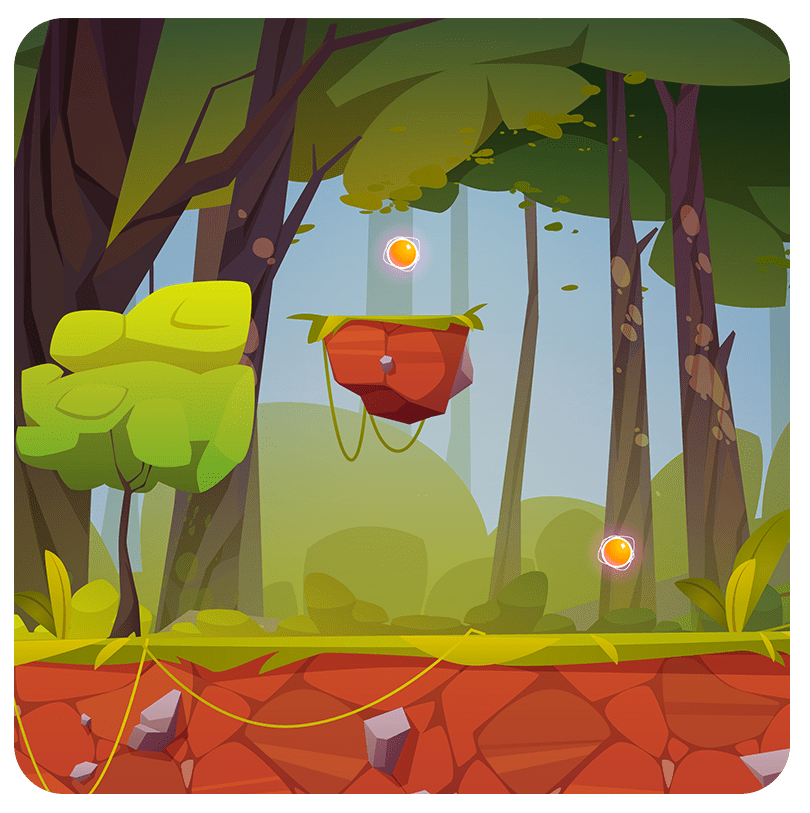
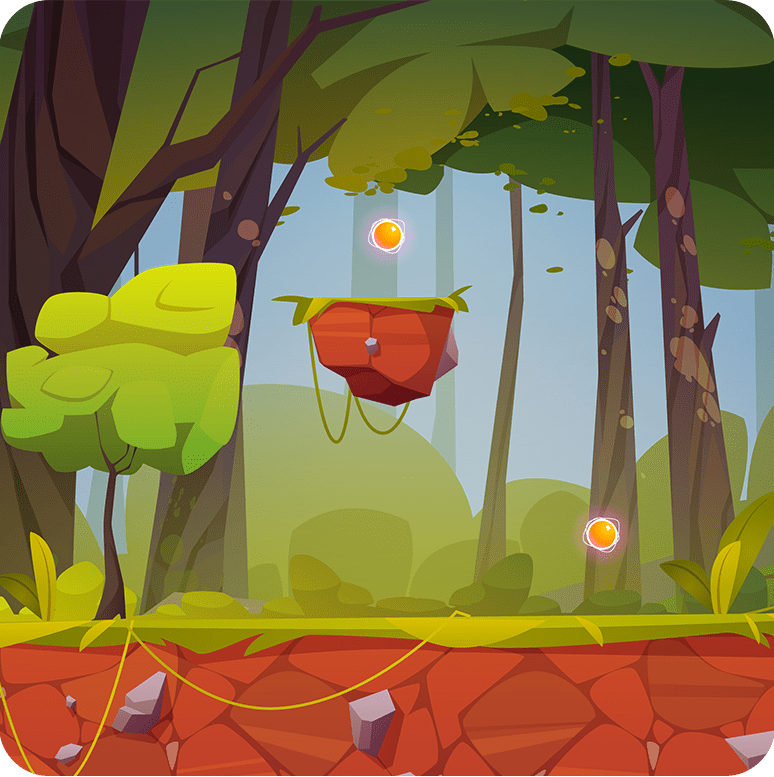
Add files via upload

diff --git a/css/style.css b/css/style.css
@@ -4,8 +4,15 @@
     box-sizing: border-box;
     font-family: 'Poppins', sans-serif;
 }
-.main{
+.mainDark{
     background-image: url("../images/bg1.jpg");
+    height: 100vh;
+    background-repeat: no-repeat;
+    background-size: cover;
+    z-index: -1;
+}
+.mainLight{
+    background-image: url("../images/bg2c1.jpg");
     height: 100vh;
     background-repeat: no-repeat;
     background-size: cover;
@@ -66,7 +73,7 @@ li{
 .background-shape{   
 
  width: 100%;
- position: absolute;    
+ position: relative;    
  top: 250px;
  justify-content: center;
  display: flex;
@@ -82,9 +89,18 @@ li{
     padding-right: 10vw;
     display: flex;
     justify-content: flex-end;
+    z-index: 5;
+    
+}
+
+.img-cartoon:hover{
+    box-shadow: 0 25px 40px rgba(0, 0, 0, .5);
+    transform: scale(1.01);
+    transform: rotate3d(1,1,1);
 }
 
 .img-cartoon{
+    border-radius: 50px;
     width: 30vw;
 }
 
@@ -100,6 +116,53 @@ li{
     width: 16vw;
 }
 
+
+/* ----------checkbox stratss--------------------- */
+
+
+.checkbox_container{
+    width: 100%;
+    /* background-color: red; */
+    display: flex;
+    justify-content: center;
+    
+    position: fixed;
+    top: 90vh;
+
+    
+}
+
+.inputBox{
+    width: 60px;
+    height: 20px;
+    background-color: rgb(231, 231, 231);
+    border-radius: 50px;
+    position: relative;
+    box-shadow: 0 10px 10px rgba(0, 0, 0, 0.295), inset 0 10px 10px rgba(0, 0, 0, 0.295);
+}
+
+.inputBox input{
+    width: 100%;
+    height: 100%;
+    cursor: pointer;
+    outline: none;
+    -webkit-appearance: none;
+    position: absolute;
+}
+
+.inputBox label{
+    font-size: 1.6rem;
+    position: absolute;
+    cursor: pointer;
+    transform: translate(-10px, -8.5px);
+}
+
+.inputBox input:checked ~ label{
+    transform: translate(35px, -8.5px);
+}
+
+
+/* -----------chceckbox ends--------------------------- */
 
 @media (max-width:375px){
     /* ----------------- starts navigation----------------- */

diff --git a/index.html b/index.html
@@ -15,7 +15,7 @@
     <link href="https://cdn.jsdelivr.net/npm/bootstrap@5.0.0-beta3/dist/css/bootstrap.min.css" rel="stylesheet" integrity="sha384-eOJMYsd53ii+scO/bJGFsiCZc+5NDVN2yr8+0RDqr0Ql0h+rP48ckxlpbzKgwra6" crossorigin="anonymous">
 </head>
 <body>
-    <div class="main">
+    <div class="mainDark" id="lightMode">
         <div class="header">
             <div class="logo">
                 <img src="images/logo.png" alt="logo"  class="logo-img">
@@ -41,20 +41,31 @@
 
             <div class="background-shape">
                 <img src="images/im2.png" alt=""  class="img-bg">
+                <div class="checkbox_container">
+                    <div class="inputBox">
+                        <input type="checkbox" name="" id="emojiInput">
+                        <label for="emojiInput" id="emoji">&#127770;</label>
+                    </div>
+                </div>
             </div>
             <div class="cartoon-img">
-                <a href="#" class="img-cartoon-a"><img src="images/im1.png" alt="" class="img-cartoon"></a>
+                
+                <a href="#" class="img-cartoon-a"><img src="images/im1.png" alt="" class="img-cartoon" id="cartoonimg"></a>
             </div>
             <div class="text-img">
                 <img src="images/text.png" alt="" class="img-text">
             </div>
+            
         </div>
+       
+
         
     </div>
 
     <!-- JavaScript Bundle with Popper -->
     <script src="https://cdn.jsdelivr.net/npm/bootstrap@5.0.0-beta3/dist/js/bootstrap.bundle.min.js" integrity="sha384-JEW9xMcG8R+pH31jmWH6WWP0WintQrMb4s7ZOdauHnUtxwoG2vI5DkLtS3qm9Ekf" crossorigin="anonymous"></script>
     <script src="https://ajax.googleapis.com/ajax/libs/jquery/3.6.0/jquery.min.js"></script>
+    <script src="js/checkbox.js"></script>
     <script>
     
         $(document).ready(function(){

diff --git a/js/checkbox.js b/js/checkbox.js
@@ -1,0 +1,17 @@
+const cartoonImage = document.getElementById('cartoonimg')
+const mode = document.getElementById('lightMode')
+const emojiInput = document.getElementById("emojiInput");
+const emoji = document.getElementById("emoji");
+emojiInput.addEventListener('click', () => {
+    console.log(emojiInput.checked);
+    if(emojiInput.checked == true){
+        emoji.innerHTML='&#127773;'
+        mode.classList.add('mainLight')
+        cartoonImage.src = "images/im1dark.png"
+    }
+    else{
+        emoji.innerHTML='&#127770;'
+        mode.classList.remove('mainLight')
+        cartoonImage.src = "images/im1.png"
+    }
+})
